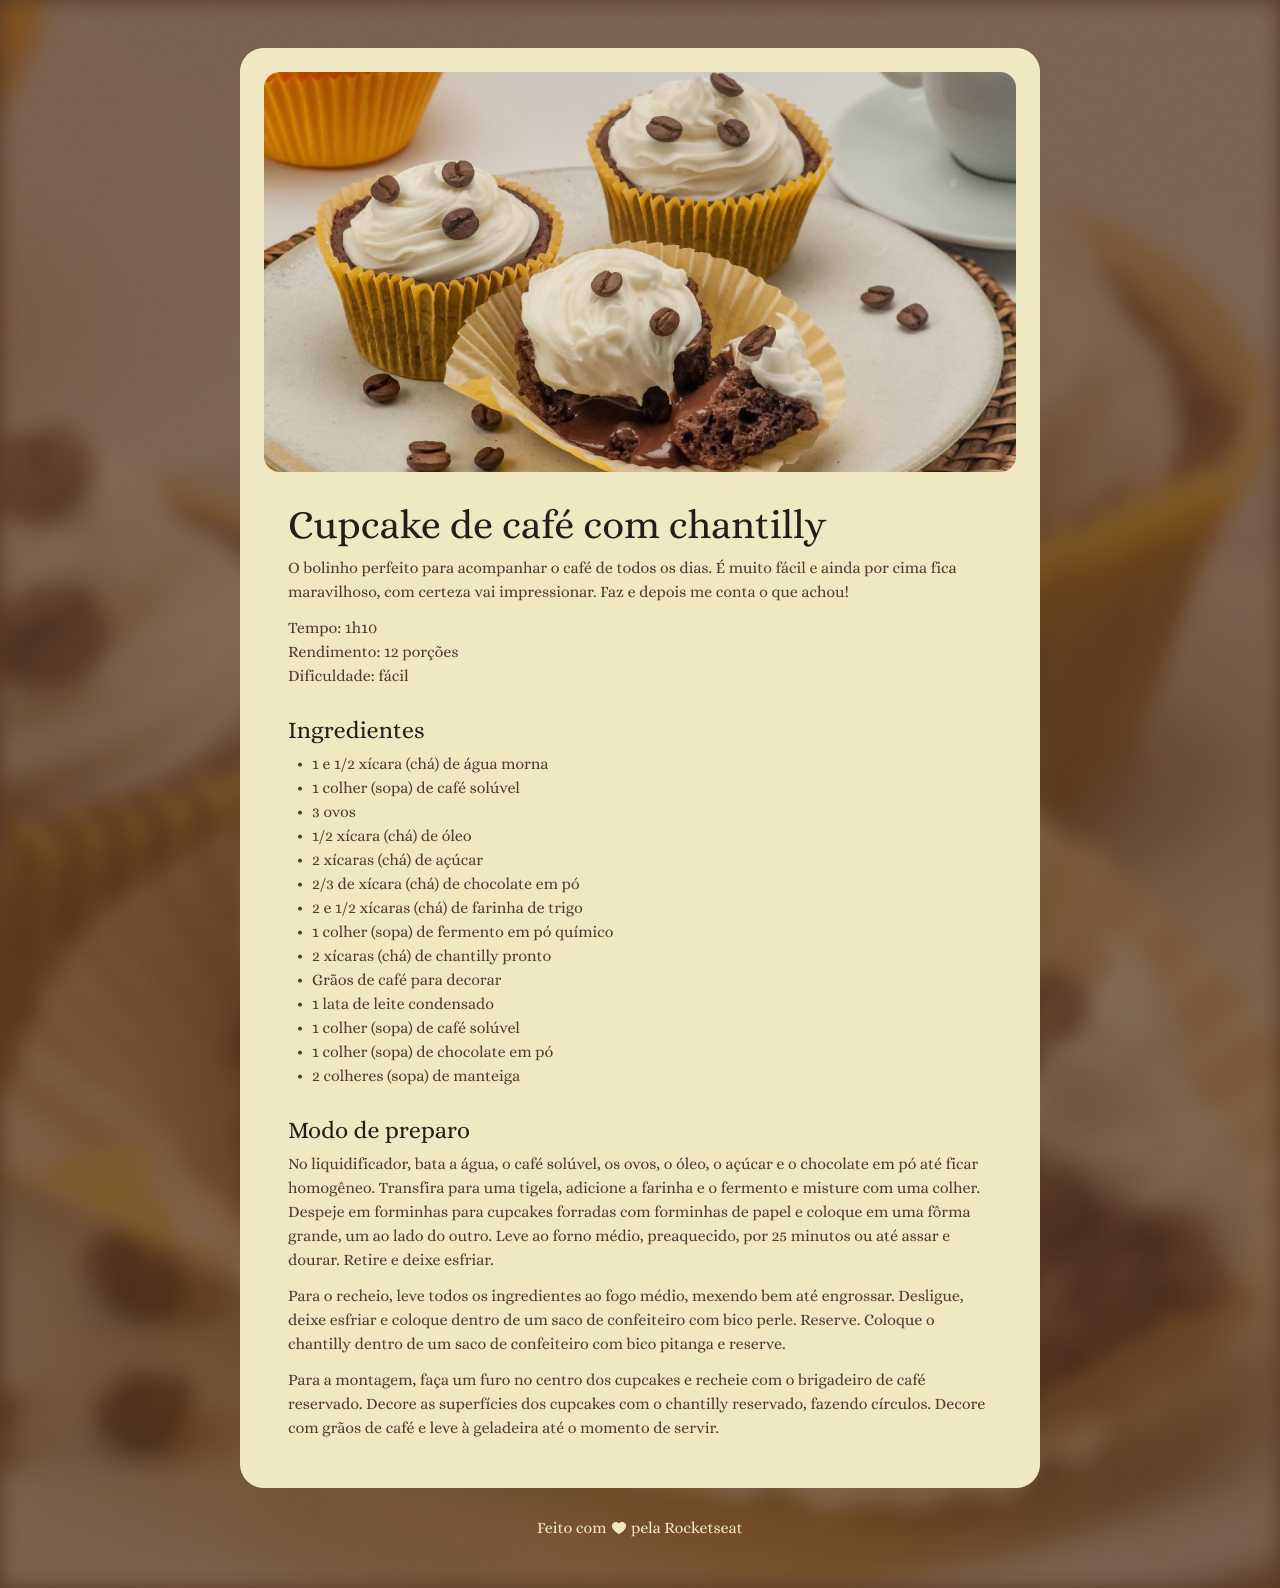
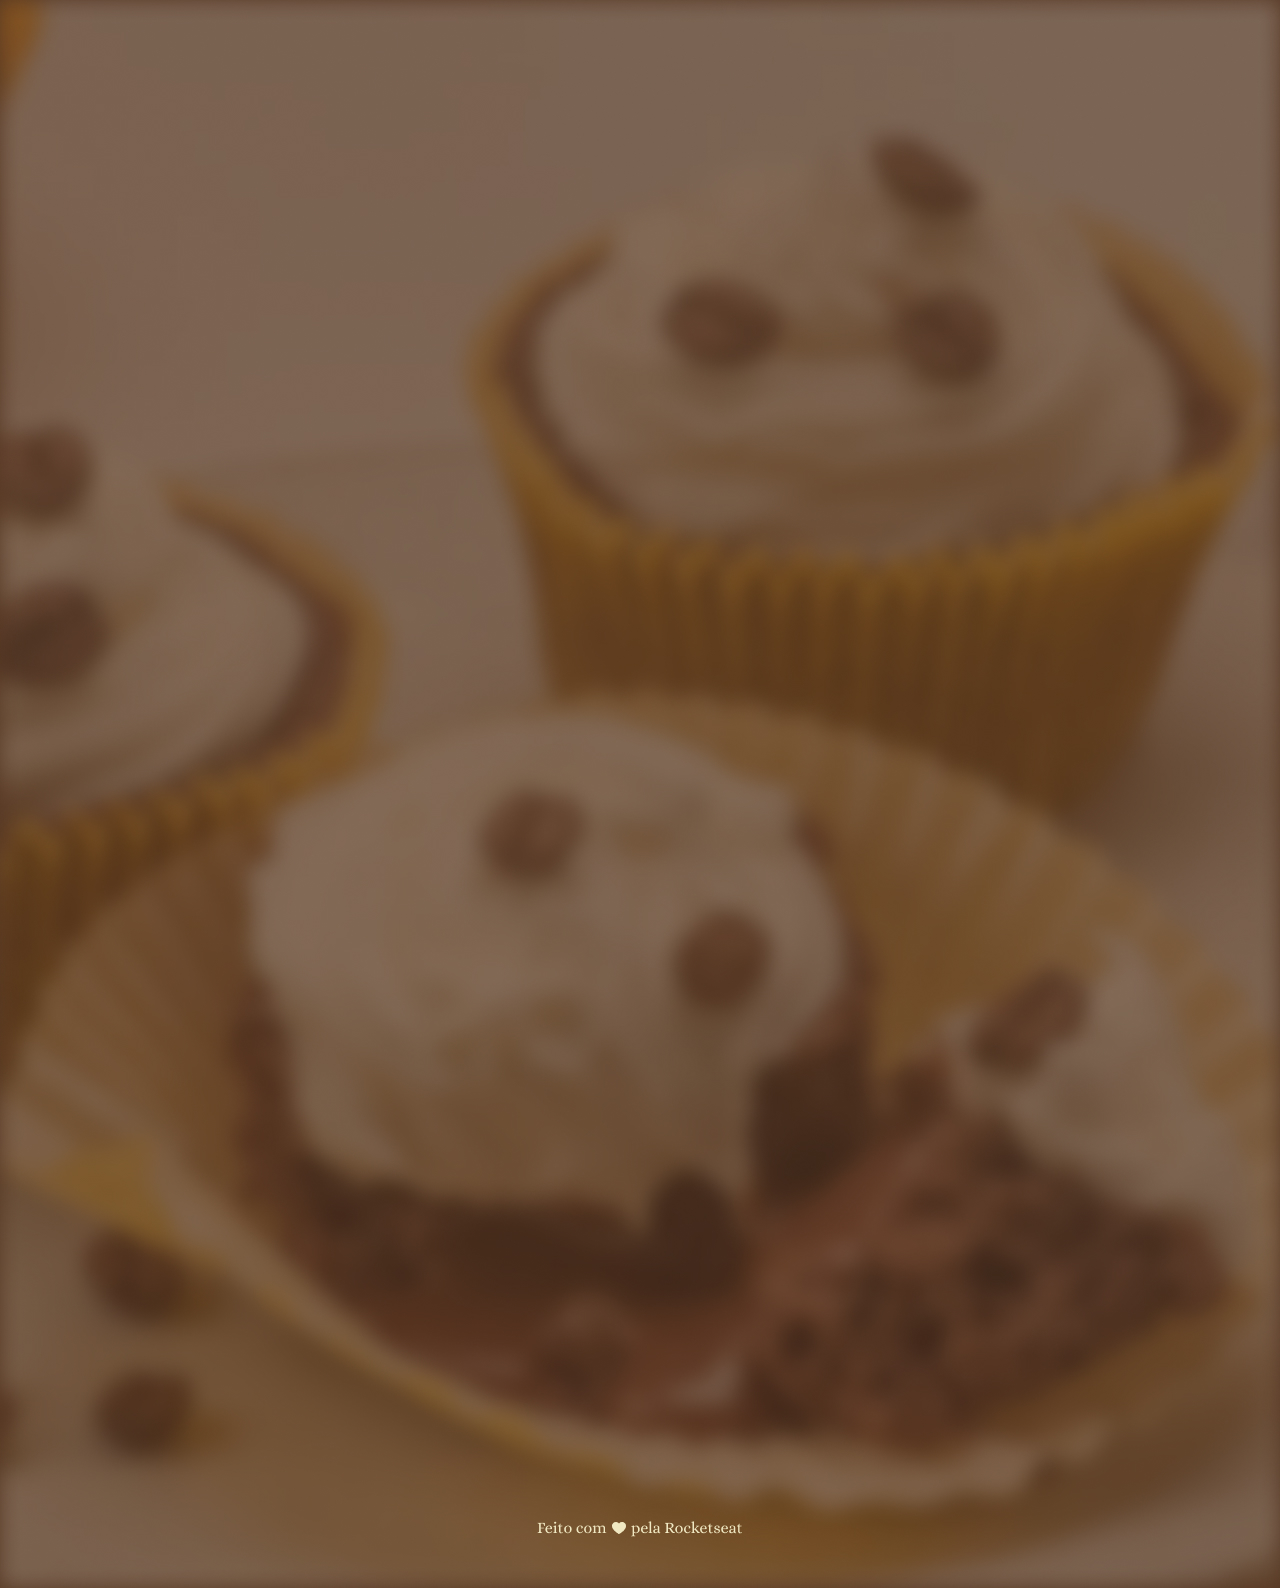
imagem de fundo; estilo #page

diff --git a/style.css b/style.css
@@ -1,3 +1,18 @@
+body {
+    background-image: url(assets/bg.jpg);
+    background-size: cover;
+}
+
+#page {
+    box-sizing: border-box;
+    width: 800px;
+    padding: 24px;
+    background-color: #F0E8C2;
+    border-radius: 24px;
+    margin: 48px auto;
+}
+
+
 img {
     border-radius: 16px;
 }
